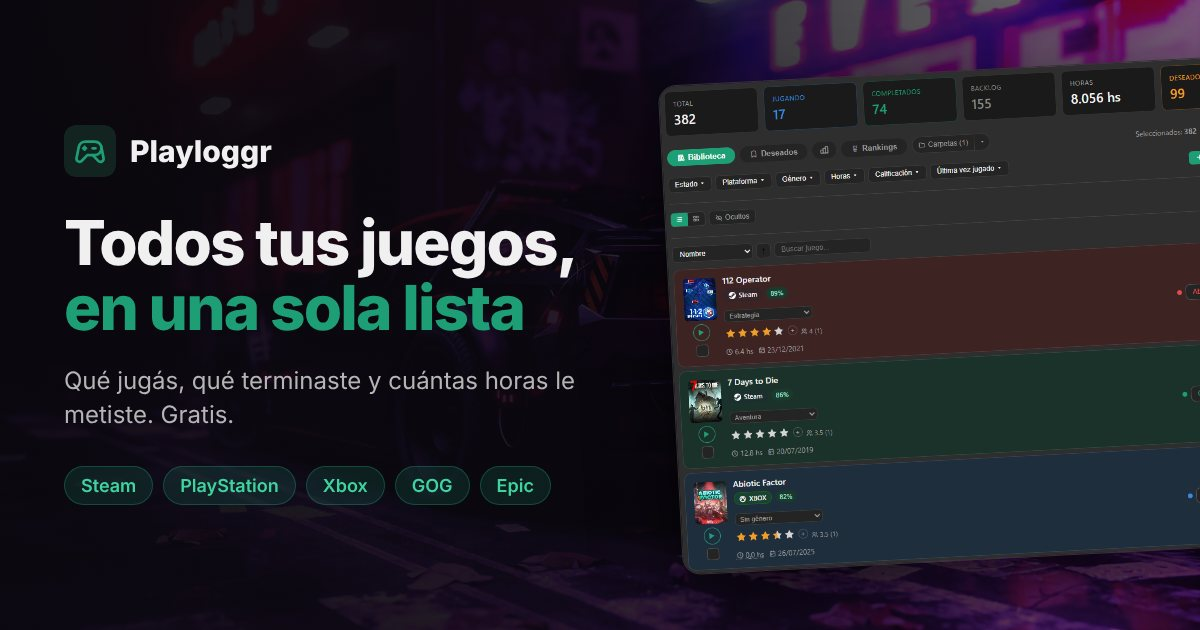
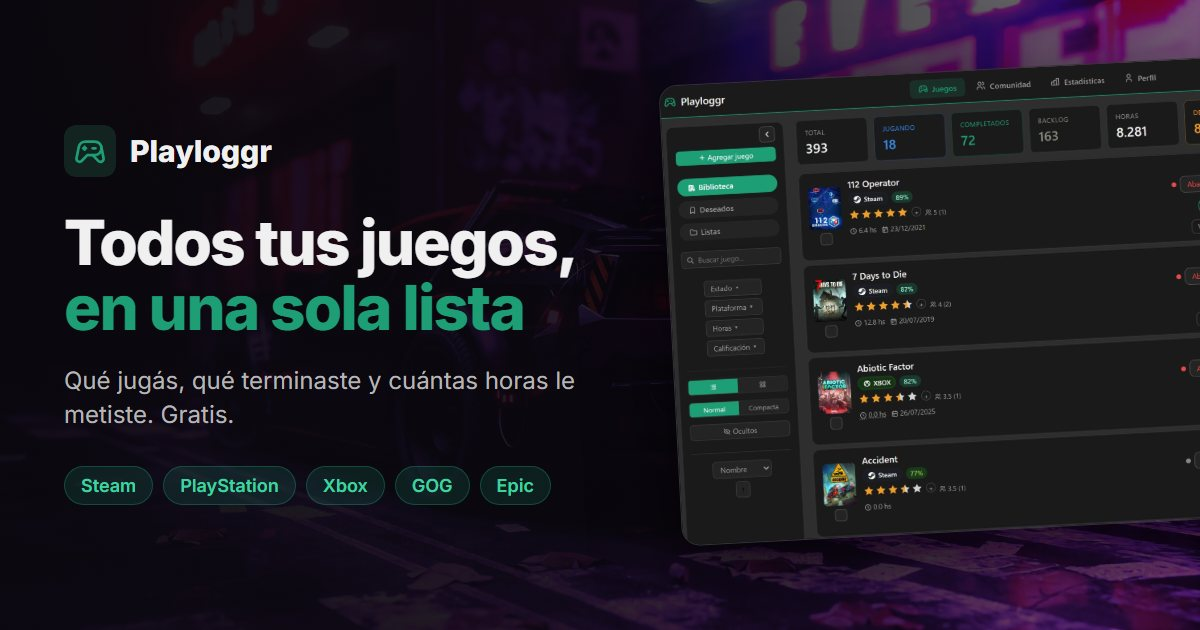
landing: imagen de vista previa (og-cover) con la biblioteca nueva
Regenerada desde tools/og-cover/og.html (es/en/pt, 1200x630, JPG q84,
~80 KB). ?v=2 en og:image/twitter:image para que WhatsApp/Facebook/X
no sigan mostrando la version cacheada.

diff --git a/pt/index.html b/pt/index.html
@@ -18,7 +18,7 @@
 <meta property="og:url" content="https://playloggr.com/pt/" />
 <meta property="og:title" content="Playloggr — Seu backlog de jogos, organizado" />
 <meta property="og:description" content="Registre o que você está jogando, o que completou e o que ainda falta. Sincronize Steam, PlayStation, GOG, Xbox e Epic Games, desbloqueie conquistas e compita com amigos." />
-<meta property="og:image" content="https://playloggr.com/assets/og-cover-pt.jpg" />
+<meta property="og:image" content="https://playloggr.com/assets/og-cover-pt.jpg?v=2" />
 <meta property="og:image:width" content="1200" />
 <meta property="og:image:height" content="630" />
 <meta property="og:locale" content="pt_BR" />
@@ -27,7 +27,7 @@
 <meta name="twitter:card" content="summary_large_image" />
 <meta name="twitter:title" content="Playloggr — Seu backlog de jogos, organizado" />
 <meta name="twitter:description" content="Registre o que você está jogando, o que completou e o que ainda falta. Sincronize Steam, PlayStation, GOG, Xbox e Epic Games, desbloqueie conquistas e compita com amigos." />
-<meta name="twitter:image" content="https://playloggr.com/assets/og-cover-pt.jpg" />
+<meta name="twitter:image" content="https://playloggr.com/assets/og-cover-pt.jpg?v=2" />
 
 <link rel="icon" type="image/svg+xml" href="/favicon.svg" />
 <link rel="preconnect" href="https://fonts.googleapis.com" />

diff --git a/index.html b/index.html
@@ -18,7 +18,7 @@
 <meta property="og:url" content="https://playloggr.com/" />
 <meta property="og:title" content="Playloggr — Tu backlog de videojuegos, organizado" />
 <meta property="og:description" content="Llevá el registro de qué jugás, qué completaste y qué tenés pendiente. Sincronizá Steam, PlayStation, GOG, Xbox y Epic Games, desbloqueá logros y competí con amigos." />
-<meta property="og:image" content="https://playloggr.com/assets/og-cover.jpg" />
+<meta property="og:image" content="https://playloggr.com/assets/og-cover.jpg?v=2" />
 <meta property="og:image:width" content="1200" />
 <meta property="og:image:height" content="630" />
 <meta property="og:locale" content="es_AR" />
@@ -27,7 +27,7 @@
 <meta name="twitter:card" content="summary_large_image" />
 <meta name="twitter:title" content="Playloggr — Tu backlog de videojuegos, organizado" />
 <meta name="twitter:description" content="Llevá el registro de qué jugás, qué completaste y qué tenés pendiente. Sincronizá Steam, PlayStation, GOG, Xbox y Epic Games, desbloqueá logros y competí con amigos." />
-<meta name="twitter:image" content="https://playloggr.com/assets/og-cover.jpg" />
+<meta name="twitter:image" content="https://playloggr.com/assets/og-cover.jpg?v=2" />
 
 <link rel="icon" type="image/svg+xml" href="/favicon.svg" />
 <link rel="preconnect" href="https://fonts.googleapis.com" />

diff --git a/en/index.html b/en/index.html
@@ -18,7 +18,7 @@
 <meta property="og:url" content="https://playloggr.com/en/" />
 <meta property="og:title" content="Playloggr — Your game backlog, organized" />
 <meta property="og:description" content="Track what you're playing, what you finished, and what's next. Sync Steam, PlayStation, GOG, Xbox, and Epic Games, unlock achievements, and compete with friends." />
-<meta property="og:image" content="https://playloggr.com/assets/og-cover-en.jpg" />
+<meta property="og:image" content="https://playloggr.com/assets/og-cover-en.jpg?v=2" />
 <meta property="og:image:width" content="1200" />
 <meta property="og:image:height" content="630" />
 <meta property="og:locale" content="en_US" />
@@ -27,7 +27,7 @@
 <meta name="twitter:card" content="summary_large_image" />
 <meta name="twitter:title" content="Playloggr — Your game backlog, organized" />
 <meta name="twitter:description" content="Track what you're playing, what you finished, and what's next. Sync Steam, PlayStation, GOG, Xbox, and Epic Games, unlock achievements, and compete with friends." />
-<meta name="twitter:image" content="https://playloggr.com/assets/og-cover-en.jpg" />
+<meta name="twitter:image" content="https://playloggr.com/assets/og-cover-en.jpg?v=2" />
 
 <link rel="icon" type="image/svg+xml" href="/favicon.svg" />
 <link rel="preconnect" href="https://fonts.googleapis.com" />
